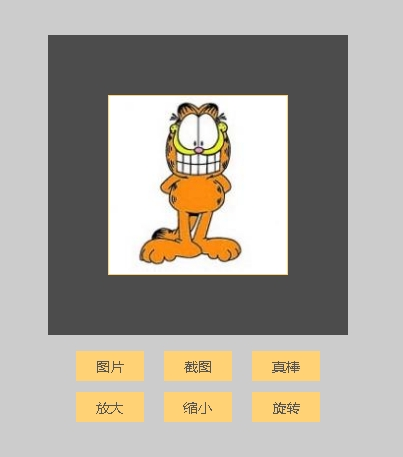
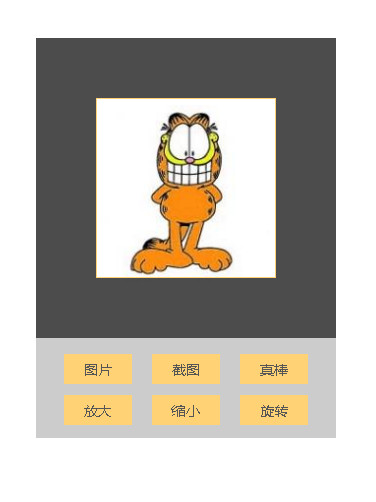
demo style more beautiful

diff --git a/example/demo.css b/example/demo.css
@@ -3,14 +3,21 @@ html, body{
     width: 100%;
     height: 100%;
     margin: 0px;
-    background-color: #CCCCCC;
 }
 
 /*外层包装容器*/
-.dialog, .dialog_mask, .dialog_wrap{
+.dialog, .dialog_mask{
     position: absolute;
     width: 100%;
     height: 100%;
+}
+
+.dialog_wrap{
+    position: relative;
+    width: 300px;
+    height: 400px;
+    margin: auto;
+    background-color: #CCCCCC;
 }
 
 .dialog_container_clip{
